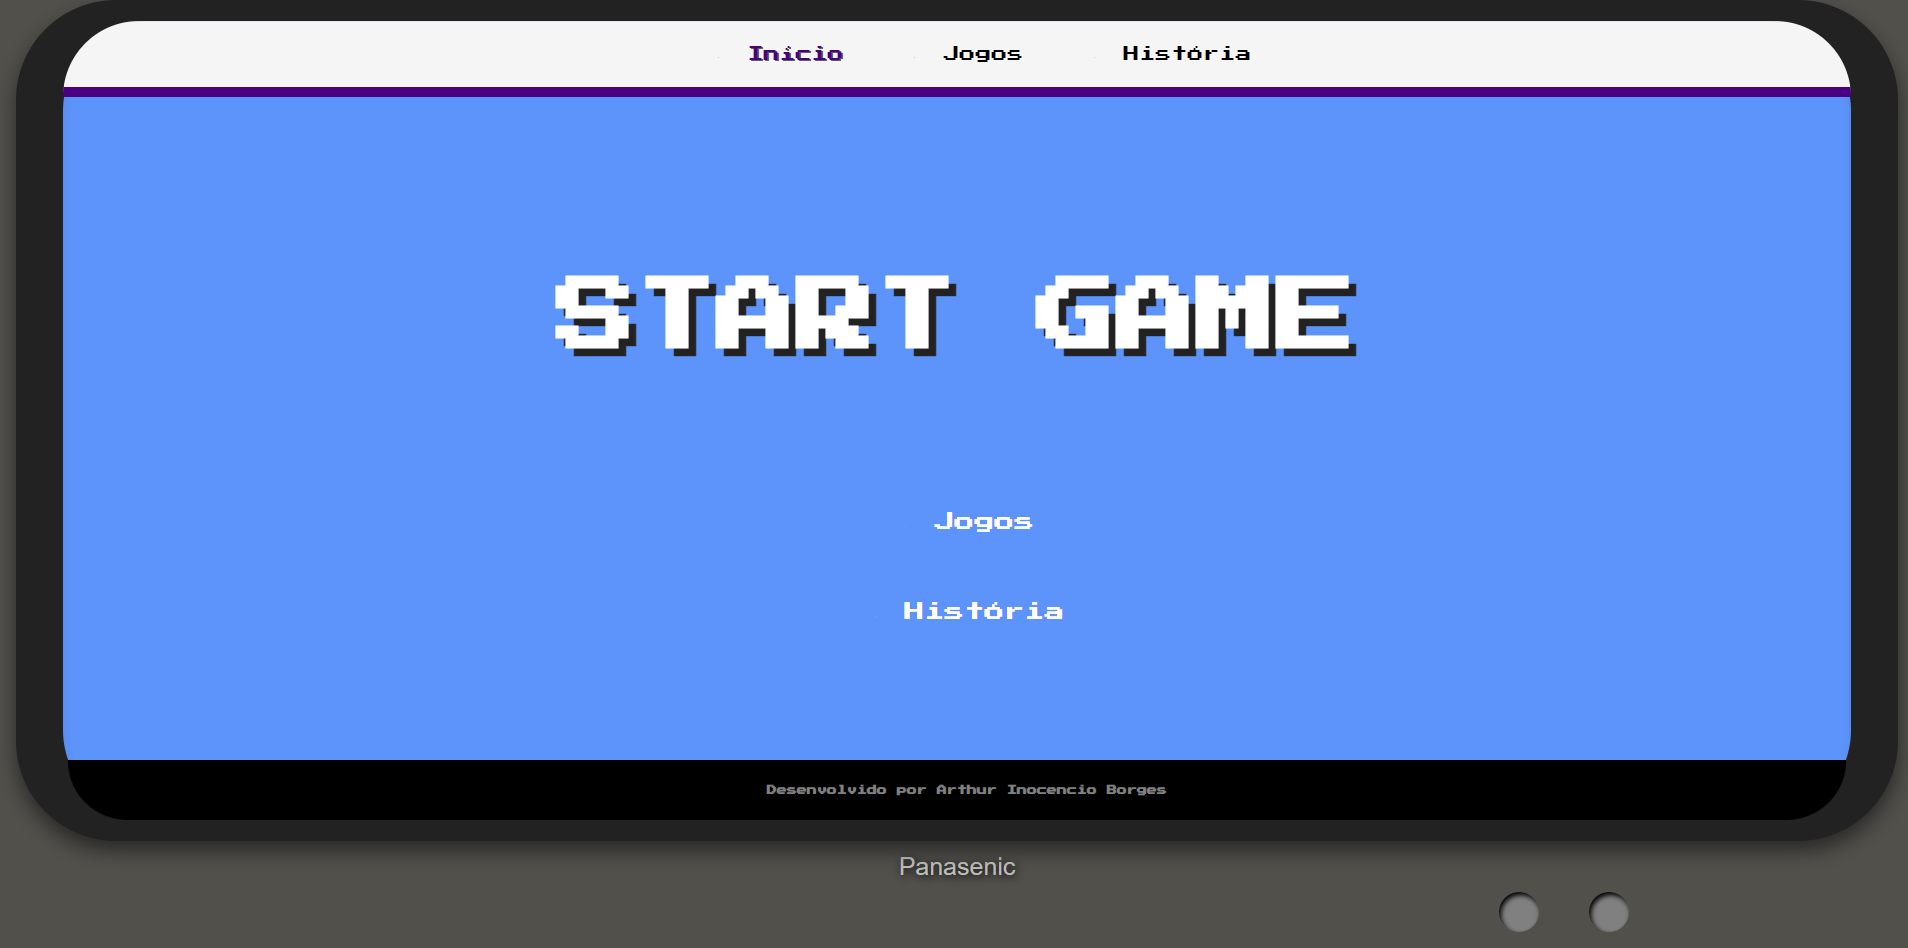
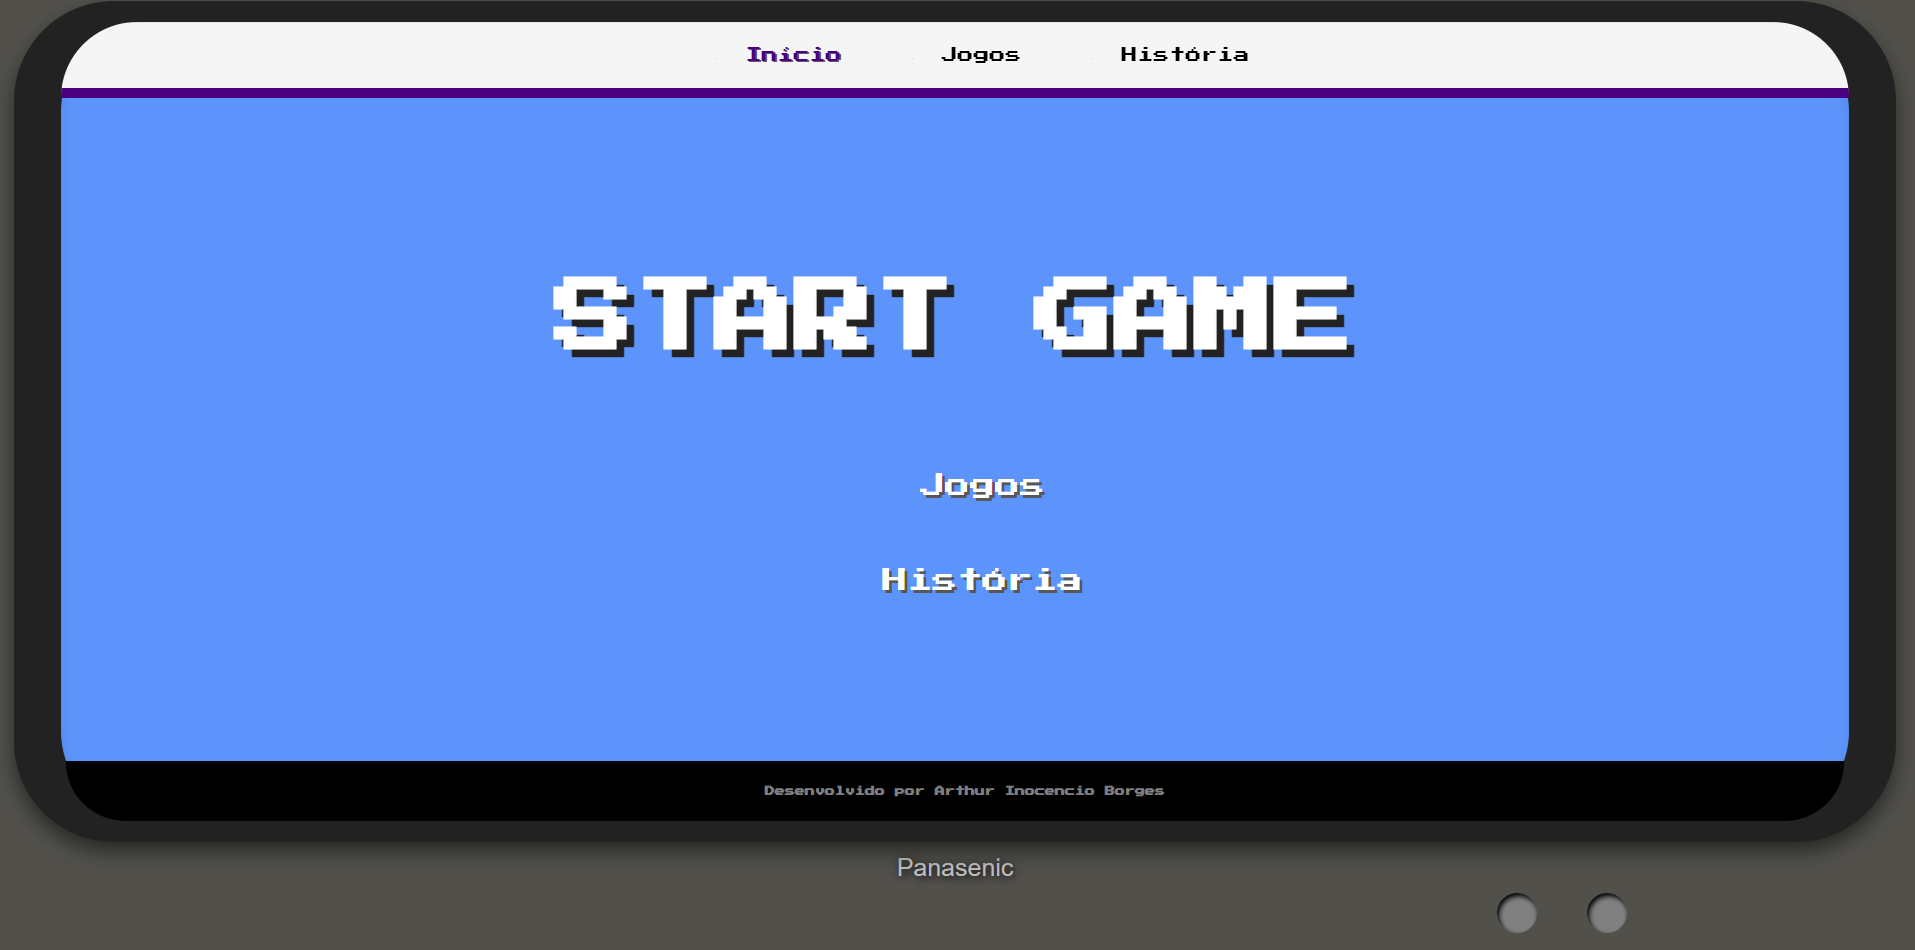
updade inicio

diff --git a/css/styles.css b/css/styles.css
@@ -182,11 +182,11 @@ footer a:hover {
 }
 
 .inicio > div {
-    margin-top: 40px;
+    margin-top: 20px;
 }
 
 .inicio ul {
-    padding-top: 50px;
+    padding-top: 30px;
     padding-left: 55px;
     list-style-type: none;
 }
@@ -198,13 +198,14 @@ footer a:hover {
     text-decoration: none;
     color: white;
     padding: 35px 50px;
-    font-size: 20px;
+    font-size: 25px;
+    text-shadow: 3px 3px rgb(87, 87, 87);
 }
 
 .inicio ul li a:hover {
     transform: scale(1.2);
     color: #4B0082;
-    text-shadow: 1px 1px 4px white;
+    text-shadow: 1px 1px white;
     background-position: 4px 50%;
     background-size: 40px;
     transition: 0.3s;
